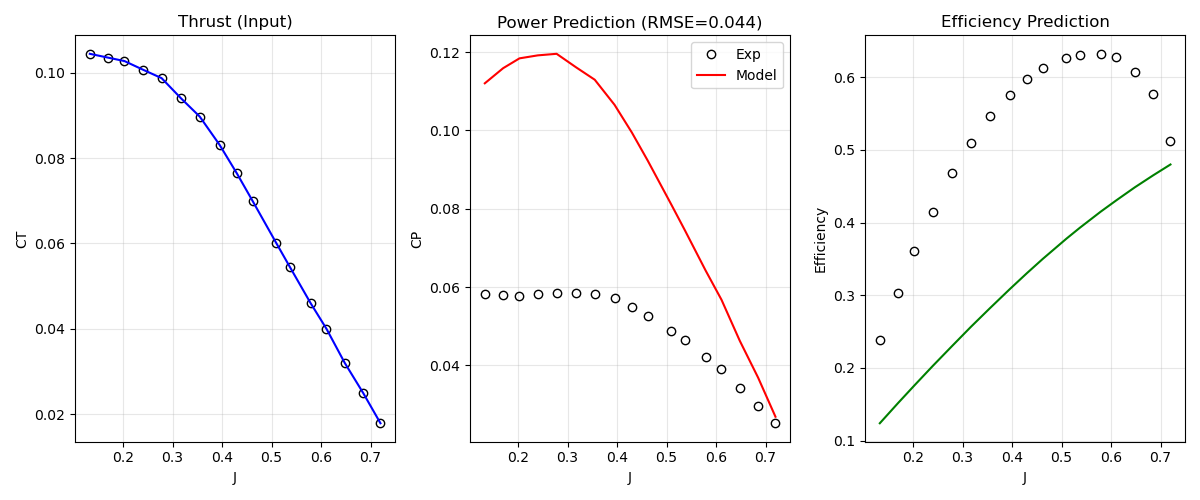
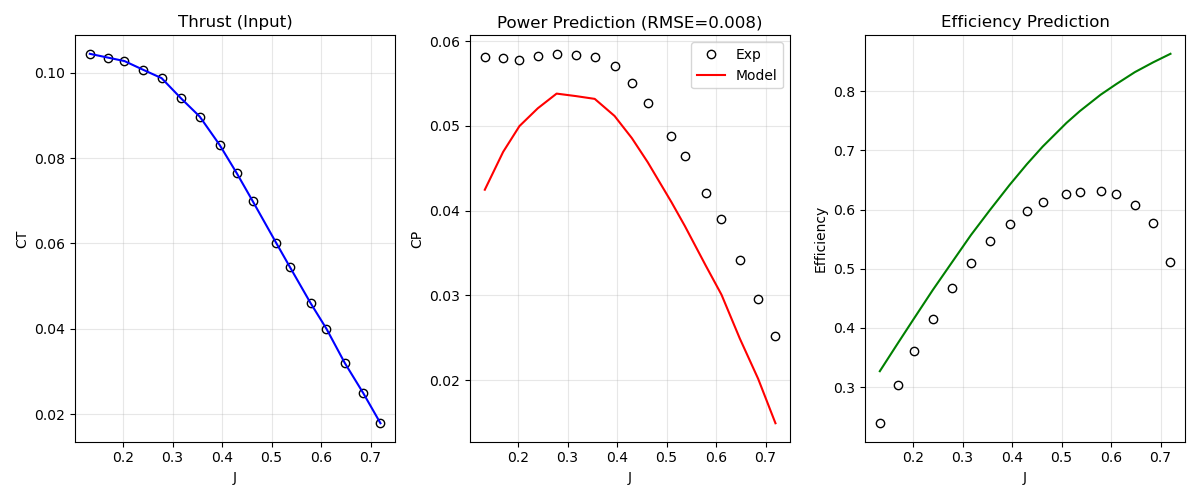
validation correction

diff --git a/src/propforce/model.py b/src/propforce/model.py
@@ -171,7 +171,8 @@ class RadialActuatorDisk:
         # Torque from swirl (simplified, proportional to loading and radius)
         # Assumes tangential force ~ dT/dr * (r / R) / (2 * pi * efficiency_factor)
         swirl_factor = 0.05  # empirical, represents induced swirl losses
-        dQ_dr = swirl_factor * dT_dr * self.r_stations / self.geom.radius
+        # dQ_dr = swirl_factor * dT_dr * self.r_stations / self.geom.radius
+        dQ_dr = swirl_factor * dT_dr * self.r_stations
         torque = np.trapz(dQ_dr, dx=dr[0])
         
         # # Power: P = T * (V_inf + w_avg) + Q * omega
